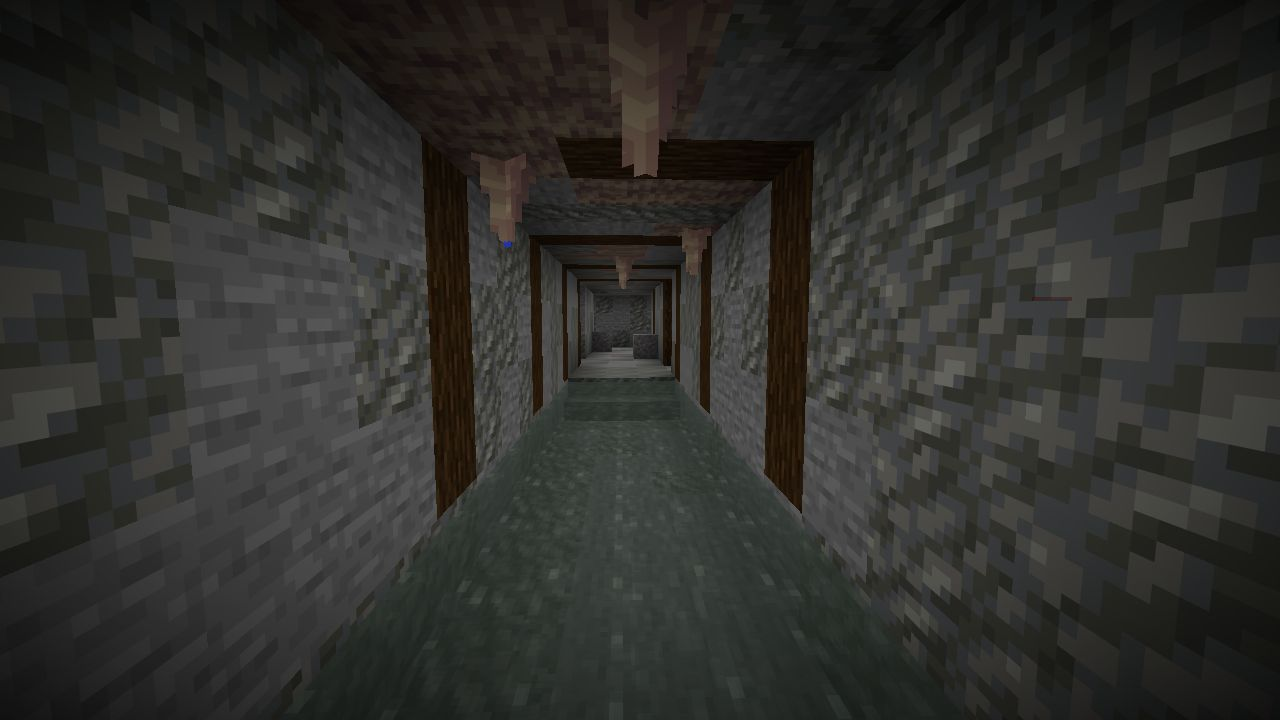
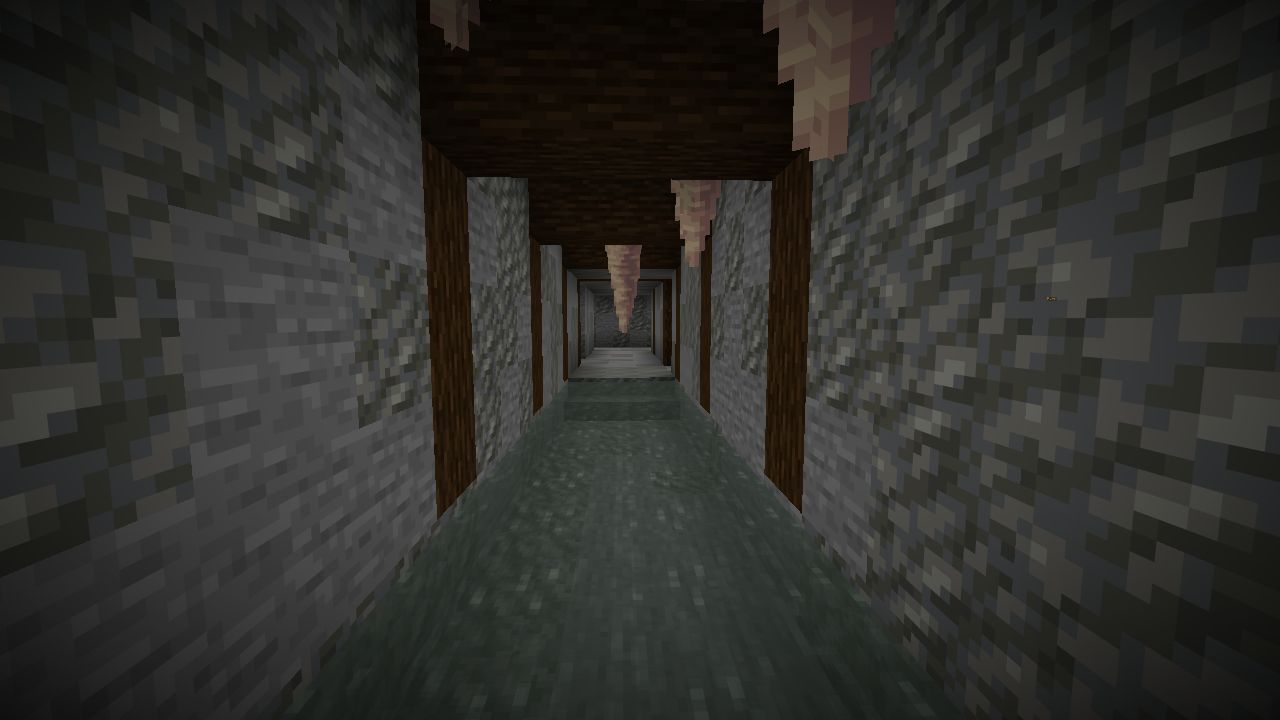
T-033: большой обвал в выработке (D1b до кармана), кадры, тесты

Changed region(s): [[0.2188, 0.0, 0.75, 0.5194]]

diff --git a/tools/test_mines.py b/tools/test_mines.py
@@ -69,6 +69,22 @@ class tm:   # restart and profiler (tools/test_spiders.py)
             except Exception: pass
         time.sleep(6)
     @staticmethod
+    def fresh():
+        """the clients relaunched in the usual order (Cam, then Cam2: the focus stays with Cam2; a focused Cam turns by itself): after an
+        hour of input the client Cam stops trading or breaking blocks"""
+        subprocess.run("pkill -f net.minecraft.client.main.Main", shell=True); time.sleep(4)
+        for name in ("Cam", "Cam2"):
+            tm.relaunch(name)
+            for _ in range(60):
+                time.sleep(3)
+                try:
+                    l = R("list")
+                    if (name == "Cam2" and "Cam2" in l) or (name == "Cam" and re.search(r"\bCam(?!2)\b", l)): break
+                except Exception: pass
+            time.sleep(6)
+        time.sleep(25)                     # right after joining the clicks of a client miss (T-032): let it settle, one idle click each
+        for name in ("Cam", "Cam2"): tc.act(name, "!sneak_off"); tc.act(name, "!use"); time.sleep(1)
+    @staticmethod
     def prof(sec=10):
         import glob, zipfile
         before = set(glob.glob(os.path.join(ROOT, "server/debug/profiling/*.zip"))); R("perf start")
@@ -346,7 +362,7 @@ def t_dead():
     # the helmets of the vanilla zombies of the workings, not of the elites
     R("kill @e[tag=t33v]")
     x, y, z = 270.5, LV[3] + 1, -44.5
-    R('summon minecraft:zombie %.1f %d %.1f {Tags:["t33v","t33a"],PersistenceRequired:1b}' % (x, y, z))
+    R('summon minecraft:zombie %.1f %d %.1f {Tags:["t33v","t33a","le.noelite"],PersistenceRequired:1b}' % (x, y, z))   # its elite roll (T-014) passes it by: not an elite
     R('summon minecraft:zombie %.1f %d %.1f {Tags:["t33v","t33e"],PersistenceRequired:1b}' % (x + 2, y, z))
     R("execute as @e[tag=t33e] at @s run function last_ember:elite/make")
     time.sleep(2.5)
@@ -431,7 +447,7 @@ def trade(p, idx):
     tpp(p, 58.5, 101, 25.3); tc.face(p, 58.5, 101, 25.3, 58.5, 101.9, 27.5); time.sleep(0.6)
     tc.act(p, "!use"); time.sleep(1.0); tc.act(p, f"!trade_sel {idx}"); time.sleep(0.7); tc.act(p, "!trade_take"); time.sleep(0.9); tc.act(p, "!sneak_off"); time.sleep(1.0)
 def t_smith():
-    print("[smith]"); stage()
+    print("[smith]"); tm.fresh(); stage()
     R('function last_ember:trader/reset {id:"smith"}'); time.sleep(3)
     offers = R("data get entity @e[tag=le.tr_smith,limit=1] Offers.Recipes")
     idx = offers.count("buy:") - 1

diff --git a/tools/build/mines_plan.py b/tools/build/mines_plan.py
@@ -132,7 +132,7 @@ DRIFTS = {
         ("B2c", (281, -60, 306, -59)), ("B2d", (305, -58, 306, -44)),
         ("K1a", (287, -62, 288, -61)), ("K1b", (287, -64, 297, -63)), ("K1c", (296, -62, 297, -61)),          # the bypass of cave-in 1
         ("K2a", (301, -58, 304, -57)), ("K2b", (301, -56, 302, -52)), ("K2c", (301, -51, 304, -50))],         # the bypass of cave-in 2
-    3: [("D1a", (263, -46, 291, -44)), ("D1b", (263, -61, 265, -47)), ("D2", (274, -69, 275, -47)),
+    3: [("D1a", (263, -46, 291, -44)), ("D1b", (263, -69, 265, -47)), ("D2", (274, -69, 275, -47)),
         ("K3a", (271, -43, 272, -42)), ("K3b", (263, -41, 272, -40)), ("K3c", (263, -43, 264, -42))],         # the bypass of cave-in 3
     4: [("P", (260, -75, 267, -70))],          # Bran's pocket (H3)
 }
@@ -142,7 +142,8 @@ INCLINES = [("adit", 0, (283, -66, 297, -64), (1, 0), (6, 6), -66),
             ("I23", 2, (292, -46, 304, -44), (-1, 0), (6, 4), None)]
 # cave-ins: (n, horizon, zone rect (floor cells), axis of the drift)
 CAVES = [(1, 2, (290, -60, 294, -59), "x"), (2, 2, (305, -56, 306, -52), "z"), (3, 3, (266, -46, 270, -44), "x")]
-BIG = dict(rect=(263, -69, 265, -62), front=-62, lane=(264, 265))   # the big collapse at the end of D1b (north); Bran's crawl: x 264..265
+BIG = dict(rect=(263, -69, 265, -62), front=-62, lane=(264, 265))   # the big collapse fills the end of D1b (north, z -69..-62, the drift
+                                                                    # is cut to the pocket under it); Bran's crawl: x 264..265
 WATER = (277, 288)                         # D1a: x 278..287 water, 277 and 288 the waterlogged slab steps
 DRIPS = [(279, -45), (283, -46), (286, -44), (287, -46)]      # pointed dripstone under the raised ceiling over the water (not on the
                                                               # timbering's columns x 281, 285)

diff --git a/tools/build/mines_shots.py b/tools/build/mines_shots.py
@@ -90,10 +90,10 @@ def main(names):
         "journal": journal,
         "adit": lambda: (R("time set 6000"), shot("adit", (276.5, Y + 1.5, -63.5), (284, Y + 1.5, -65.5), settle=7)),
         "h1": lambda: (R("time set 6000"), shot("h1", (299.5, f1 + 1.0, -44.5), (299.5, f1 + 2.0, -60.5), settle=8)),
-        "h2": lambda: (R("time set 6000"), shot("h2", (305.5, f2 + 1.0, -46.0), (305.5, f2 + 1.8, -58.5), settle=8, nv=True)),
+        "h2": lambda: (R("time set 6000"), shot("h2", (305.5, f2 + 1.0, -50.6), (305.5, f2 + 1.8, -58.5), settle=8, nv=True)),
         "cave": cave,
         "water": lambda: (R("time set 6000"), shot("water", (289.6, f3 + 1.0, -44.5), (277, f3 + 1.5, -45.0), settle=8, nv=True)),
-        "big": lambda: (R("time set 6000"), shot("big", (263.4, f3 + 1.1, big[3] + 4.2), (265.0, f3 + 1.4, big[3] - 2.0), settle=8, nv=True)),
+        "big": lambda: (R("time set 6000"), shot("big", (263.6, f3 + 1.0, big[3] + 4.6), (264.6, f3 + 1.3, big[3] - 1.5), settle=8, nv=True)),
         "pocket": lambda: (R("time set 6000"), shot("pocket", (266.6, f3 + 1.2, -70.5), (259.5, f3 + 1.8, -73.0), settle=8, nv=True)),
         "bran": lambda: (R("time set 6000"), shot("bran", (br[0] + 2.4, br[1] + 0.2, br[2] + 1.6), (br[0], br[1] + 1.5, br[2]), settle=7, nv=True)),
         "dead": dead,

diff --git a/tools/build/mines_build.py b/tools/build/mines_build.py
@@ -367,6 +367,8 @@ def big_collapse(b, c):
                 crawl = x in la and y <= f + 2 and z <= fr - 2
                 if crawl: b.set(x, y, z, "minecraft:gravel")
                 else: b.set(x, y, z, "minecraft:stripped_spruce_log[axis=x]" if hsh(x, y, z, 3350) < 0.1 else COLLAPSE.at(x, y, z) if hsh(x, y, z, 3351) < 0.6 else "minecraft:cobblestone")
+    for x in range(x1 - 1, x2 + 2):             # its walls stay rock (the ore must face the air of a working)
+        for z in range(z1 - 1, z2 + 1):
             for y in range(f, f + 5): c.noore.add((x, y, z))
     # gravel never over air: the front rows sit on the floor; the crawl's upper gravel sits on its lower one
     c.meta["big"] = dict(rect=[x1, z1, x2, z2], pick=[x1 + 0.5, f + 2.45, fr + 0.75], torch=[la[0] + 1.0, f + 1.04, fr - 0.3],
